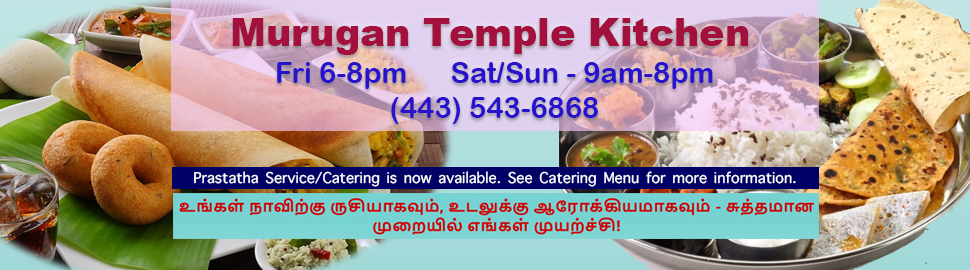
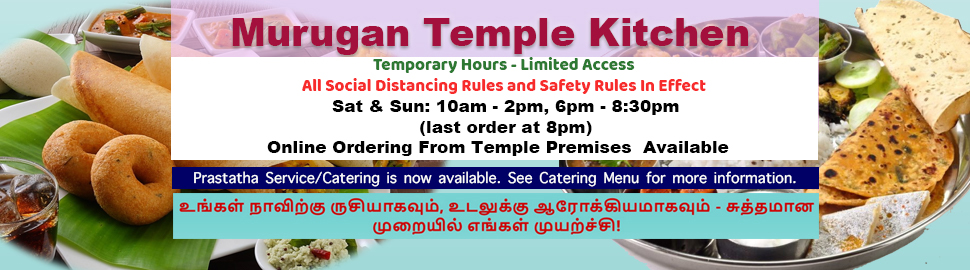
All changes supporting Step-1-2-3.

Changed region(s): [[0.1546, 0.2074, 0.866, 0.5926]]

diff --git a/index.html b/index.html
@@ -128,9 +128,15 @@
         <img src="/static/img/KitchenHoursOfOperation_banner.jpg" alt="Hours of Operation"  class="img-fluid">
       </div>
     </div>
+    
+    <div class="row">
+      <div class="col-lg-12" align="center">
+        <img src="/static/img/Step-1.jpg" alt="Step-1"  class="img-fluid"><br>
+        (scroll-below for step-2)
+      </div>
+    </div>
 
     <a name="livemenu"></a>
-    <br><br><br>
     <div class="row">
       <div class="col-lg-12" align="center">
         <h3>Our Current Available Dine-In Carry-Out Menu</h3>
@@ -145,6 +151,33 @@
         <div class="embed-responsive embed-responsive-16by9">
           <iframe class="embed-responsive-item" src="https://cafemenu.murugantemple.org/" allowfullscreen height=""></iframe>
         </div>
+      </div>
+    </div>
+    
+    <div class="row">
+      <div class="col-lg-12" align="center">
+        <img src="/static/img/Step-2.jpg" alt="Step-2"  class="img-fluid">
+      </div>
+    </div>
+    
+    <div class="row">
+      <div class="col-lg-12" align="center">
+        (Please order only when you are in the temple premises)<br>
+        <a class="btn btn-danger m-2 float-center" href="https://mtnakitchen.square.site/s/shop" role="button" target="_Self">Click Here To Order Online</a><br>
+        or visit:<br>
+        <a href="https://mtnakitchen.square.site/" target="_Self">https://mtnakitchen.square.site/</a>
+      </div>
+    </div>
+
+    <div class="row">
+      <div class="col-lg-12" align="center">
+        <img src="/static/img/Step-3.jpg" alt="Step-3"  class="img-fluid">
+      </div>
+    </div>
+    
+    <div class="row">
+      <div class="col-lg-12" align="center">
+        <hr>
       </div>
     </div>
 
@@ -202,9 +235,9 @@
                         <div class="divider--shape-11"></div>
                         <div class="footer--reservation-wrapper">
                             <ul class="list-unstyled">
-                                <li>Weekdays [Mon-Thu] <span>Closed</span></li>
-                                <li>Friday <span>6pm – 8pm</span></li>
-                                <li>Saturday & Sunday <span>9am – 8pm</span></li>
+                                <li>Mon-Fri............... Closed</li>
+                                <li>Sat & Sun..10am – 2pm (morning)</li>
+                                <li>Sat & Sun..6pm - 8:30pm (evening)</li>
                             </ul>
                         </div>
                         <div class="divider--shape-10down"></div>
@@ -215,7 +248,9 @@
                     <div class="footer--widget-content">
                         <h3>Contact us</h3>
                         <p class="mb-0">Email: contactus@murugantemple.org</p>
-                        <p class="mb-0">Main Phone: (443) 543-6868</p>
+                        <!-- <p class="mb-0">Main Phone: (443) 543-6868</p>
+                        <p class="mb-0">Kitchen Phone: (301) 552-5043</p> -->
+                        <p class="mb-0">Main Phone: (301) 552-4889</p>
                         <p class="mb-0">Kitchen Phone: (301) 552-5043</p>
                     </div>
                 </div>

diff --git a/README.md b/README.md
@@ -38,9 +38,9 @@ http://localhost:8000/
 
 ## Make your changes
 
-At this point, you can make all the necessary changes locally. Once you are satisfied with the local changes, it's time to upload them to the **live** site. 
+At this point, you can make all the necessary changes locally. Once you are satisfied with the local changes, it's time to upload them to the **live-blu** site. 
 
-1. You can SFTP the contents of the root directory and all all of it's sub-directories to the target folder.
+1. You can SFTP the contents of the root directory  and all all of it's sub-directories to the target folder.
 2. Verify and validate your changes.
 
 More instructions coming soon.
